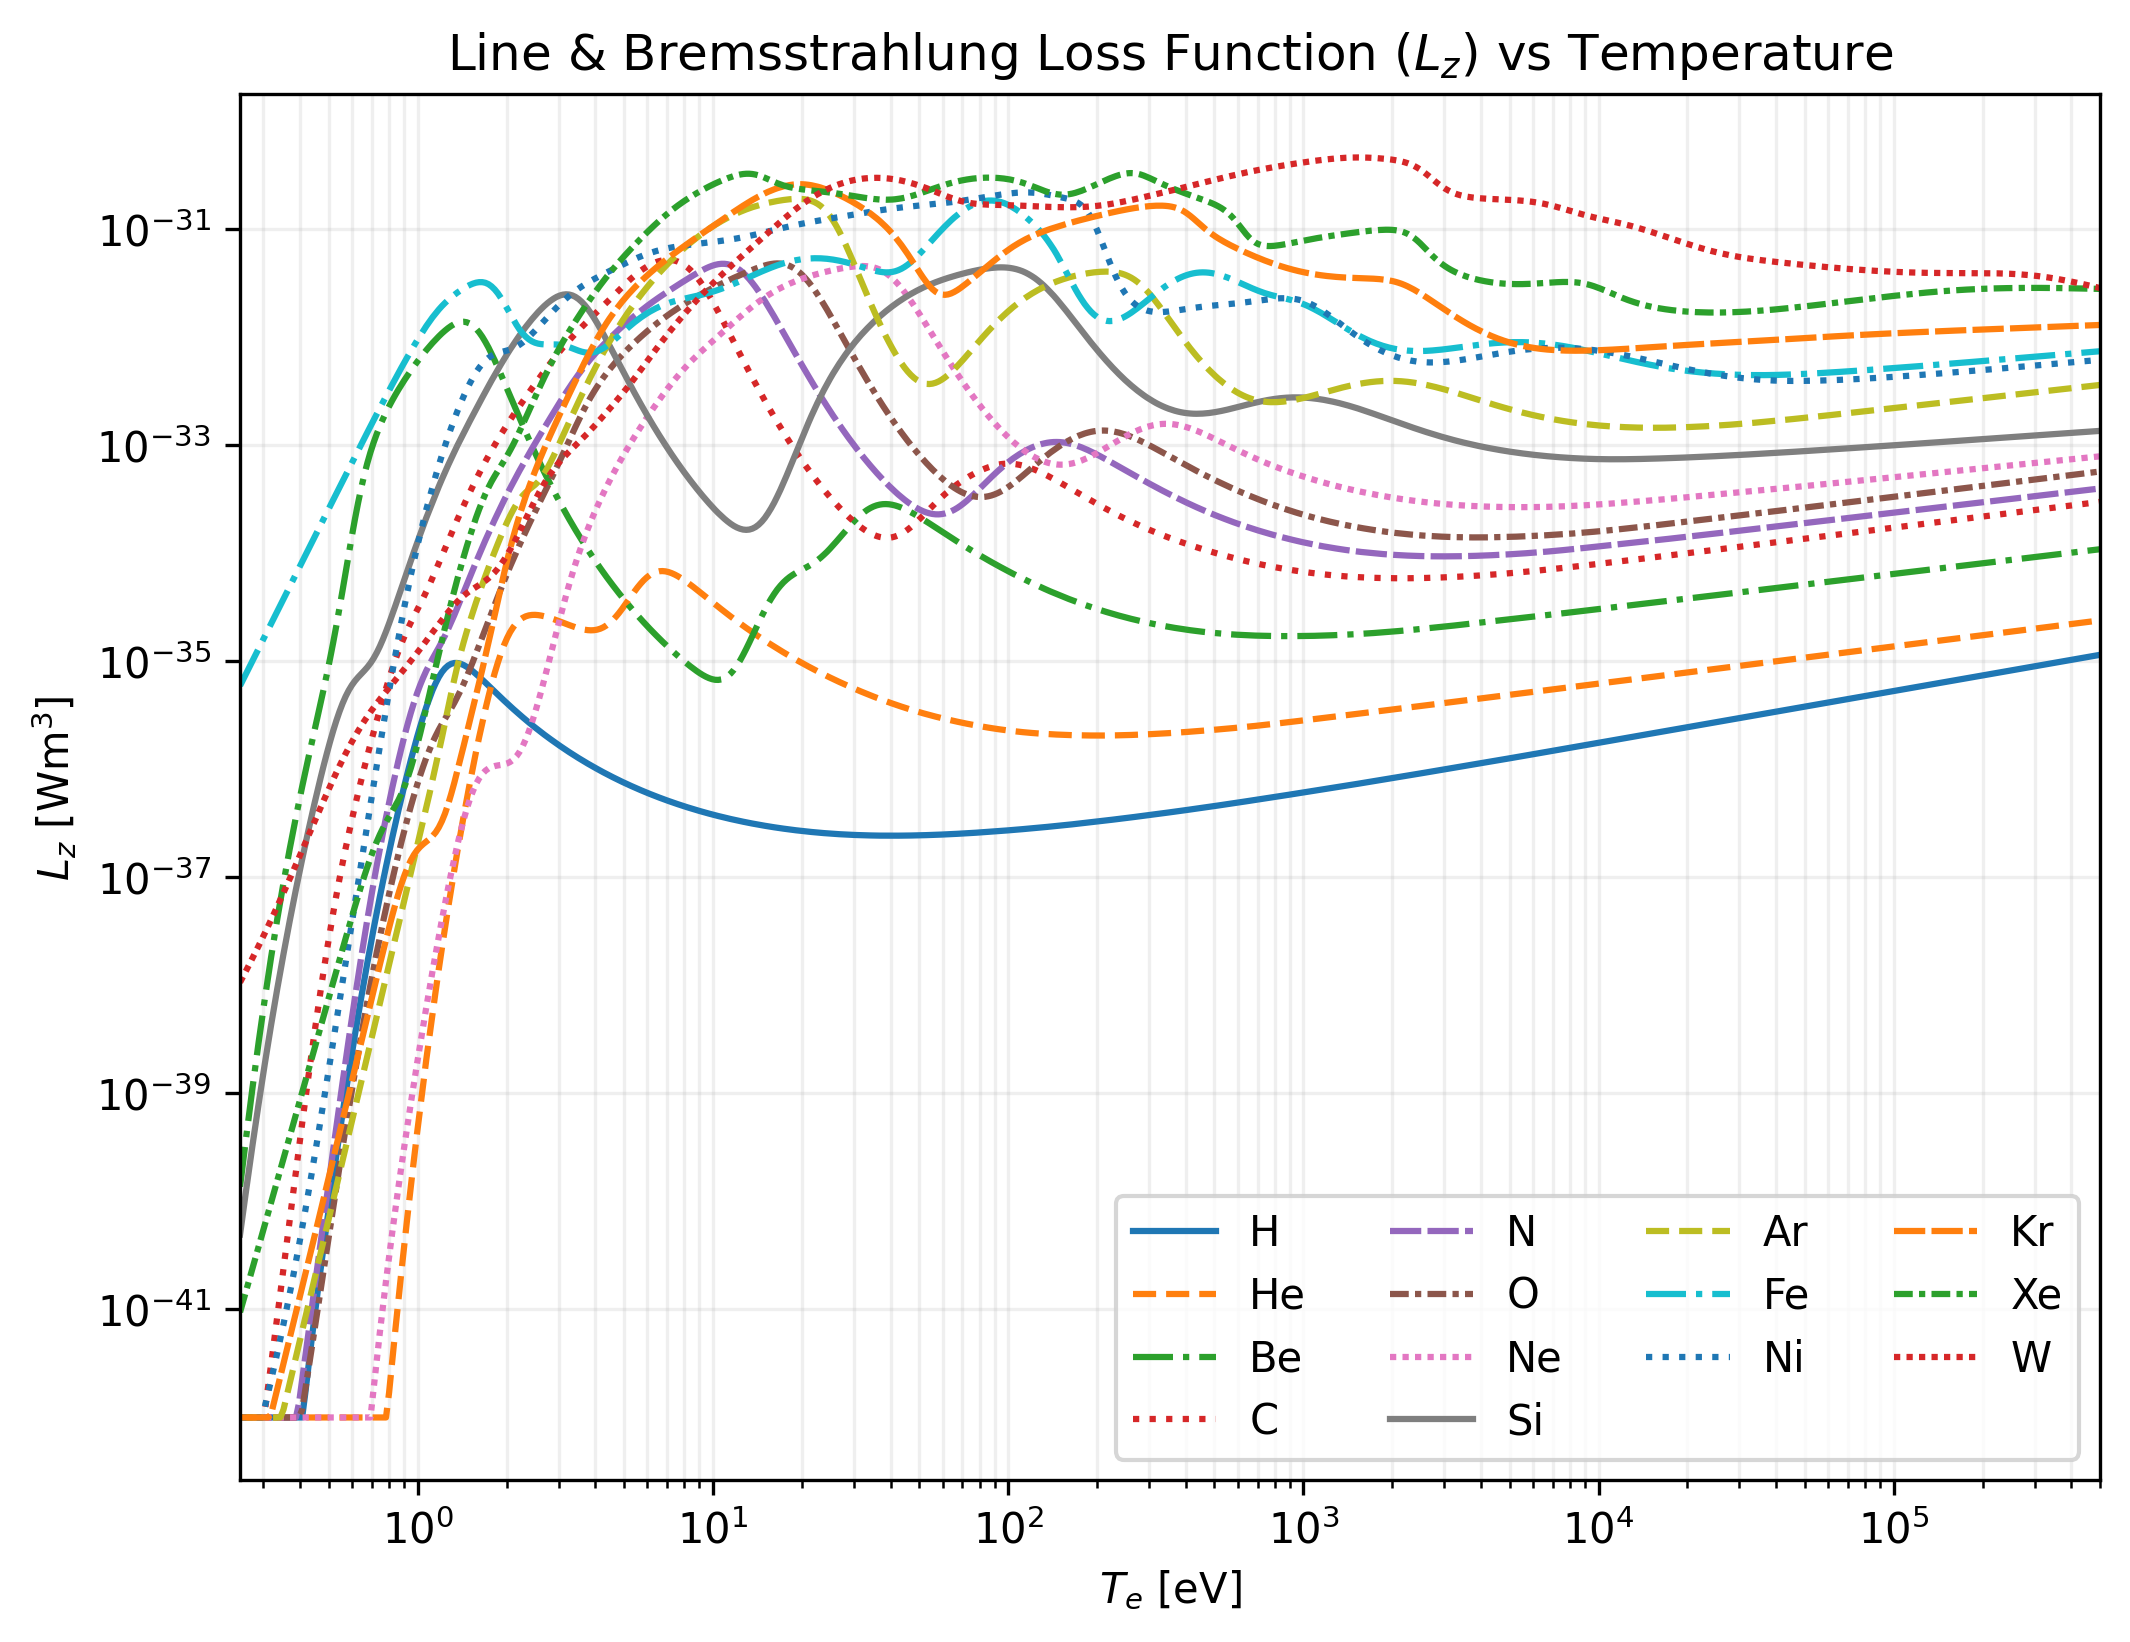
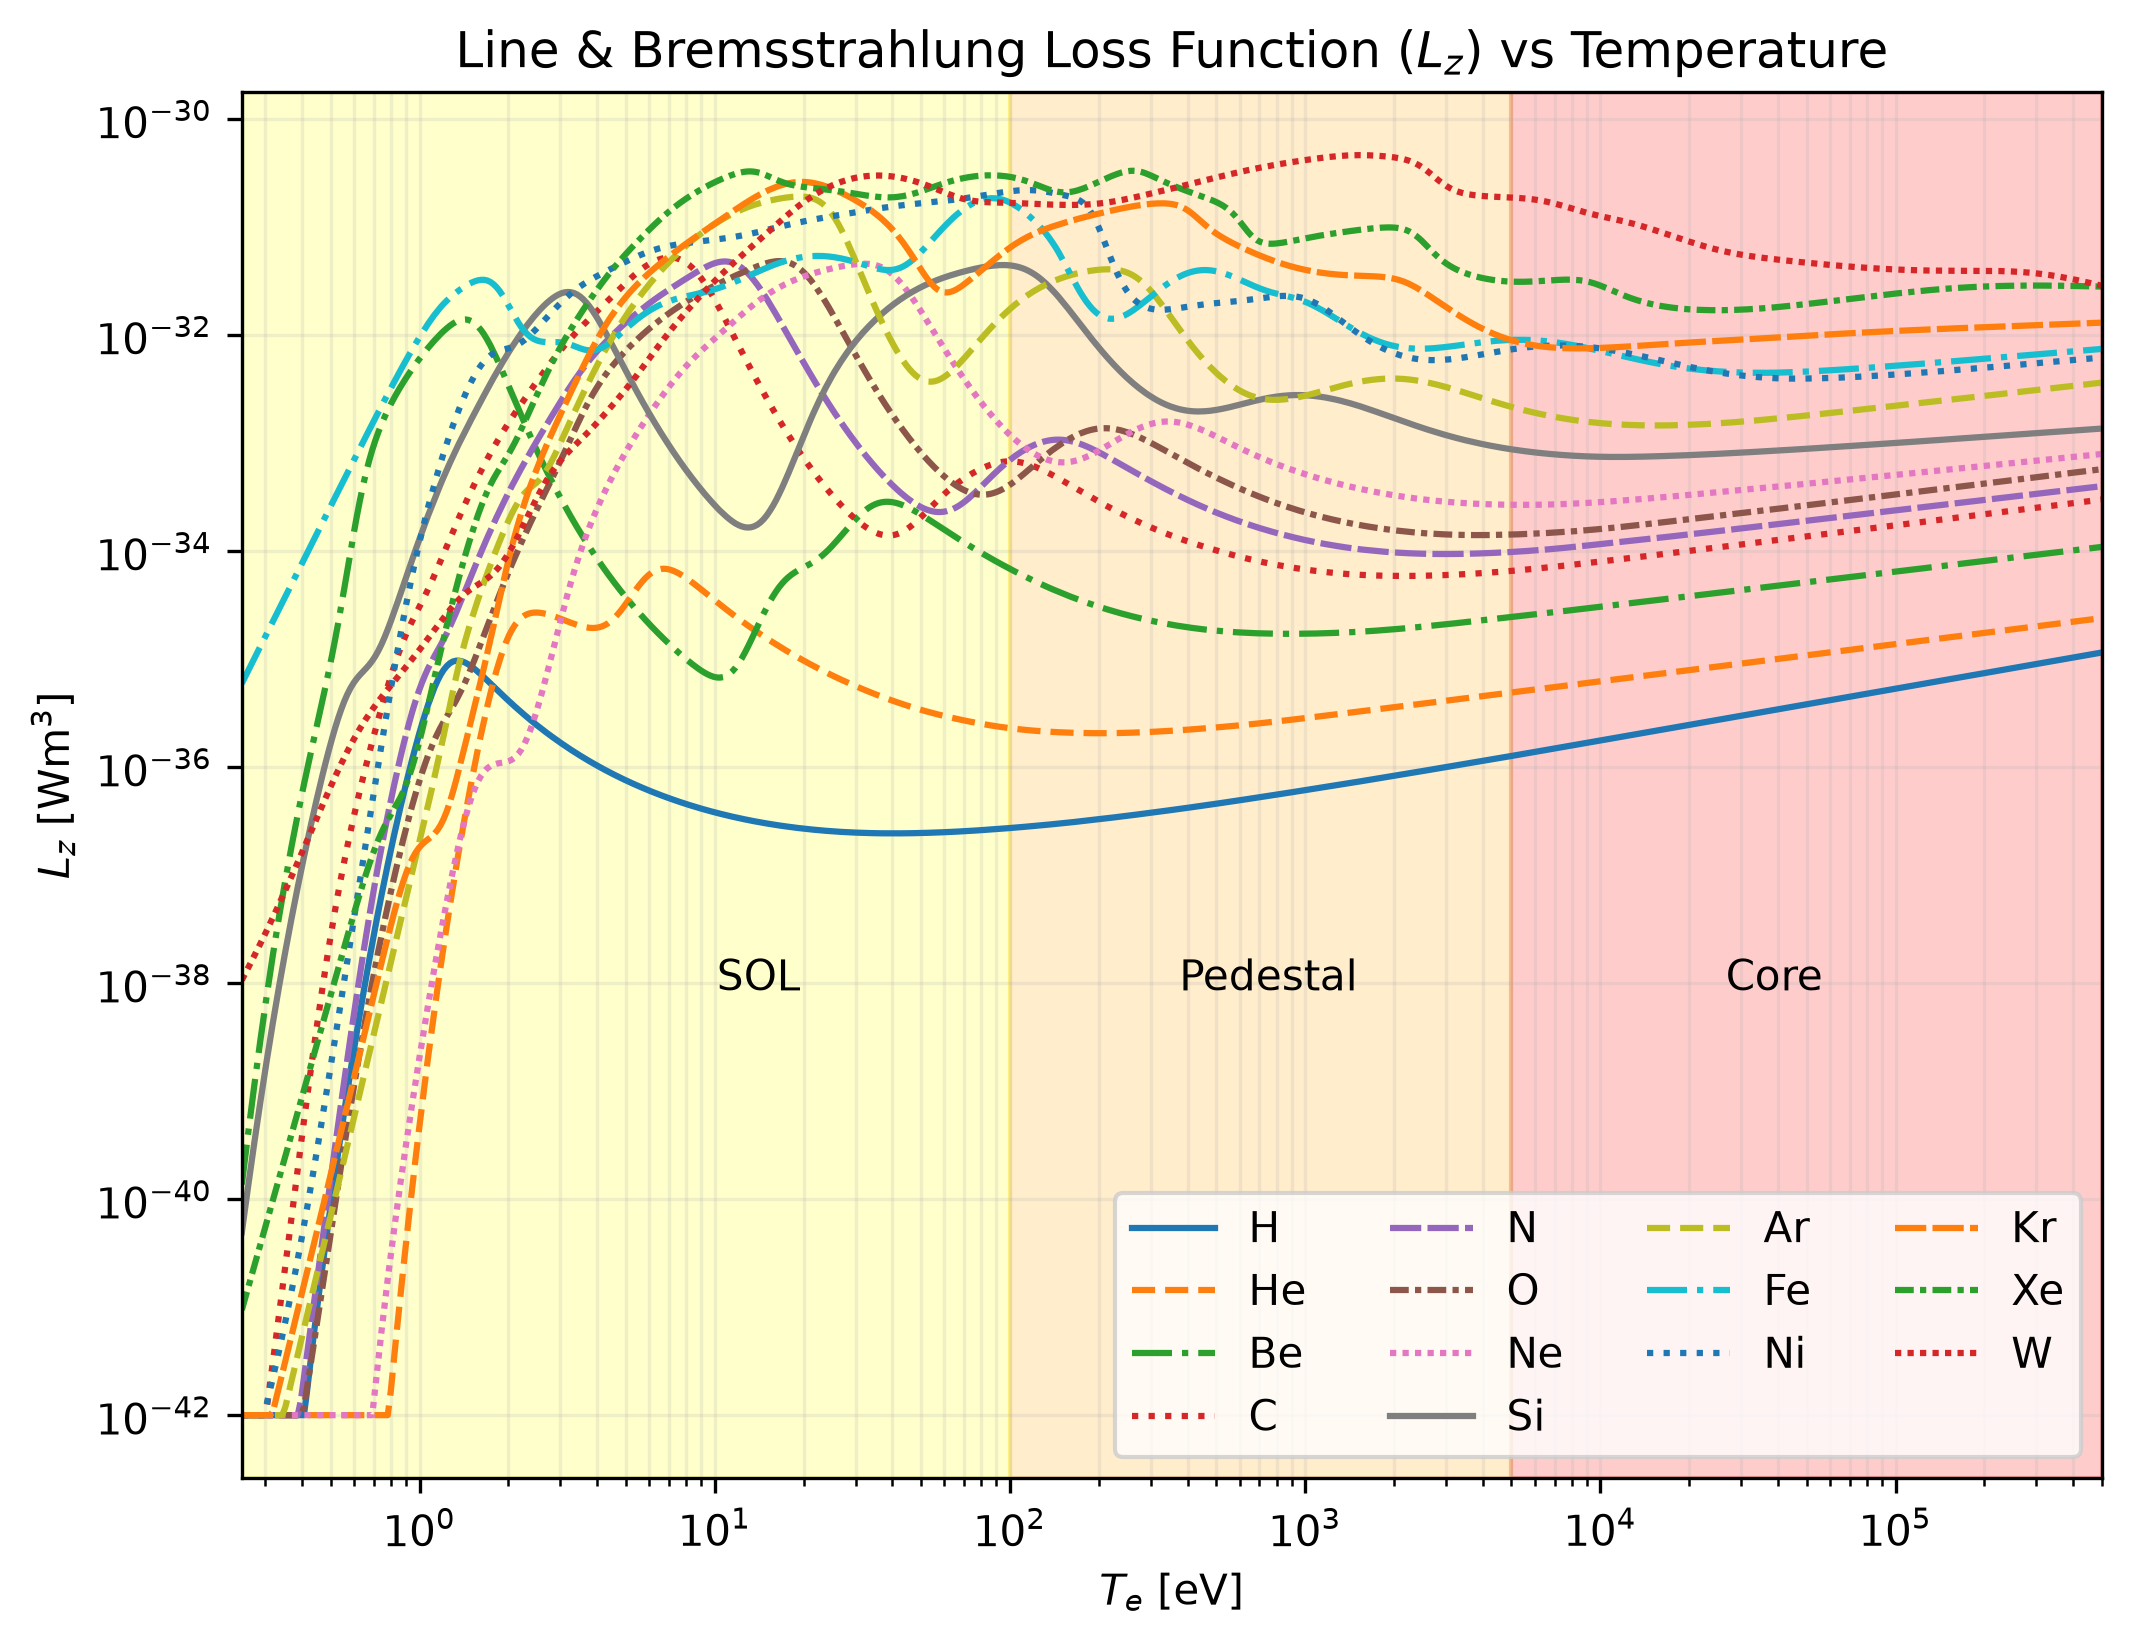
Enhance impurity loss function plot with temperature regions and update adas_radiation image

diff --git a/documentation/scripts/plotting_scripts/impurity_loss_functions.py b/documentation/scripts/plotting_scripts/impurity_loss_functions.py
@@ -63,6 +63,43 @@ def plot_line_brem_loss_function_profile(
     ])
     axis.set_xscale("log")
     axis.set_yscale("log")
+    x_max = axis.get_xlim()[1]
+    temp_core_min = 5000
+    temp_pedestal_min = 100
+    temp_sol_min = 0
+    if x_max > temp_core_min:
+        axis.axvspan(temp_core_min, x_max, color="red", alpha=0.2, zorder=0)
+        axis.text(
+            0.85,
+            0.375,
+            "Core",
+            transform=axis.transAxes,
+            horizontalalignment="right",
+            verticalalignment="top",
+        )
+
+        axis.axvspan(
+            temp_pedestal_min, temp_core_min, color="orange", alpha=0.2, zorder=0
+        )
+        axis.text(
+            0.6,
+            0.375,
+            "Pedestal",
+            transform=axis.transAxes,
+            horizontalalignment="right",
+            verticalalignment="top",
+        )
+        axis.axvspan(
+            temp_sol_min, temp_pedestal_min, color="yellow", alpha=0.2, zorder=0
+        )
+        axis.text(
+            0.3,
+            0.375,
+            "SOL",
+            transform=axis.transAxes,
+            horizontalalignment="right",
+            verticalalignment="top",
+        )
     axis.minorticks_on()
     axis.xaxis.grid(True, which="both", alpha=0.2)
     axis.yaxis.grid(True, which="both", alpha=0.2)
